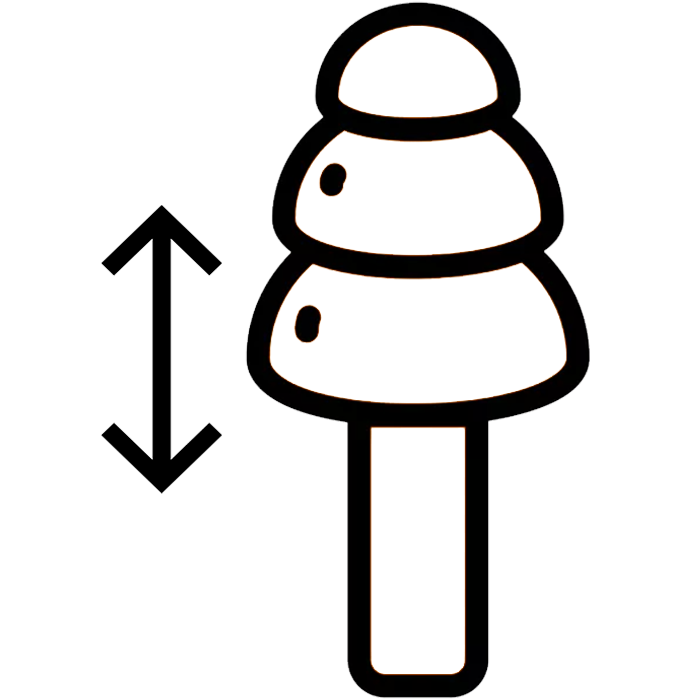
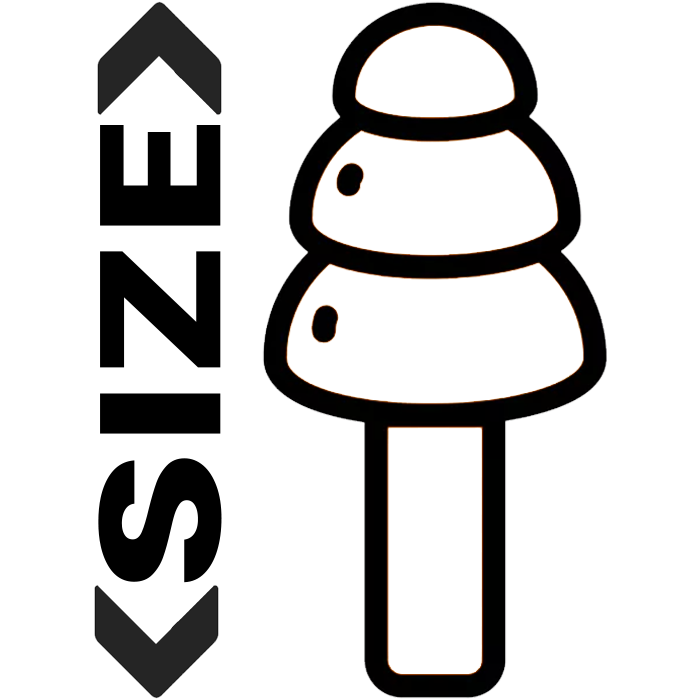
Changed Home page button and Sizes page symbol

Changed region(s): [[0.12, 0.0, 0.87, 1.0]]

diff --git a/home.css b/home.css
@@ -251,28 +251,35 @@ body {
 .logo {
     max-width: 80%;
     max-height: 80vh;
-    margin-bottom: 25px;
+    margin-bottom: 71px;
 }
 
-/* Button style */
 .sizes-button {
-    display: inline-block;
+    position: fixed;
+    bottom: 127px; /* Pas dit aan naar de gewenste afstand vanaf de bodem */
+    left: 50%;
+    transform: translateX(-50%);
+    display: inline-flex;
+    align-items: center;
     background-color: #fbe54f;
     color: var(--clr);
-    padding: 10px 20px;
+    padding: 11px 20px;
     text-decoration: none;
-    border-radius: 5px;
-    margin-top: 20px;
+    border-radius: 50px;
     font-weight: 500;
     transition: background-color 0.3s;
     margin-bottom: 10px;
 }
 
-.sizes-button:hover {
-    background-color: #ffd866;
-}
-
-/* Button text style */
 .button-text {
     font-size: 1em;
+    margin-left: 10px;
+}
+
+.button-icon {
+    width: 35px;
+    margin-right: 8px;
+    margin-top: -1px;
+    margin-bottom: -2px;
+    transform: rotate(45deg);
 }

diff --git a/home.html b/home.html
@@ -25,8 +25,10 @@
 
     <!-- Button for Sizes page -->
     <a class="sizes-button" href="sizes.html">
+      <img src="images/sizes.png" alt="Icon" class="button-icon">
       <span class="button-text">Pick a size</span>
     </a>
+    
   </div>
 
   <!-- The animated risks -->
